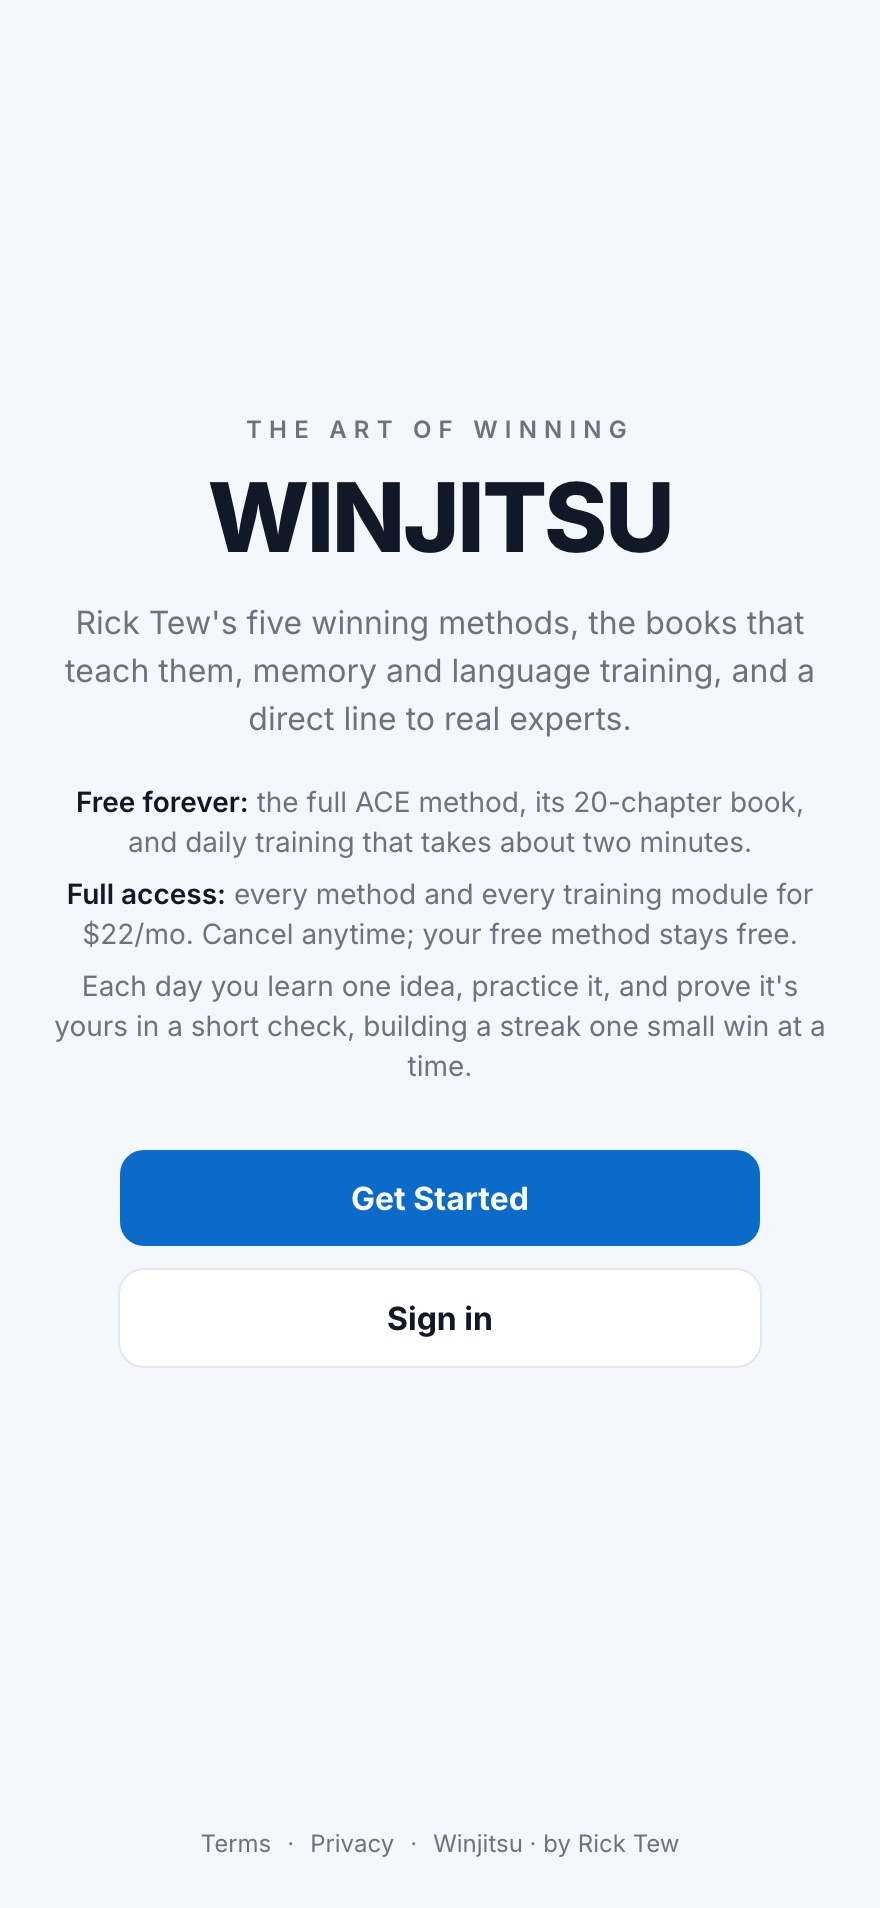
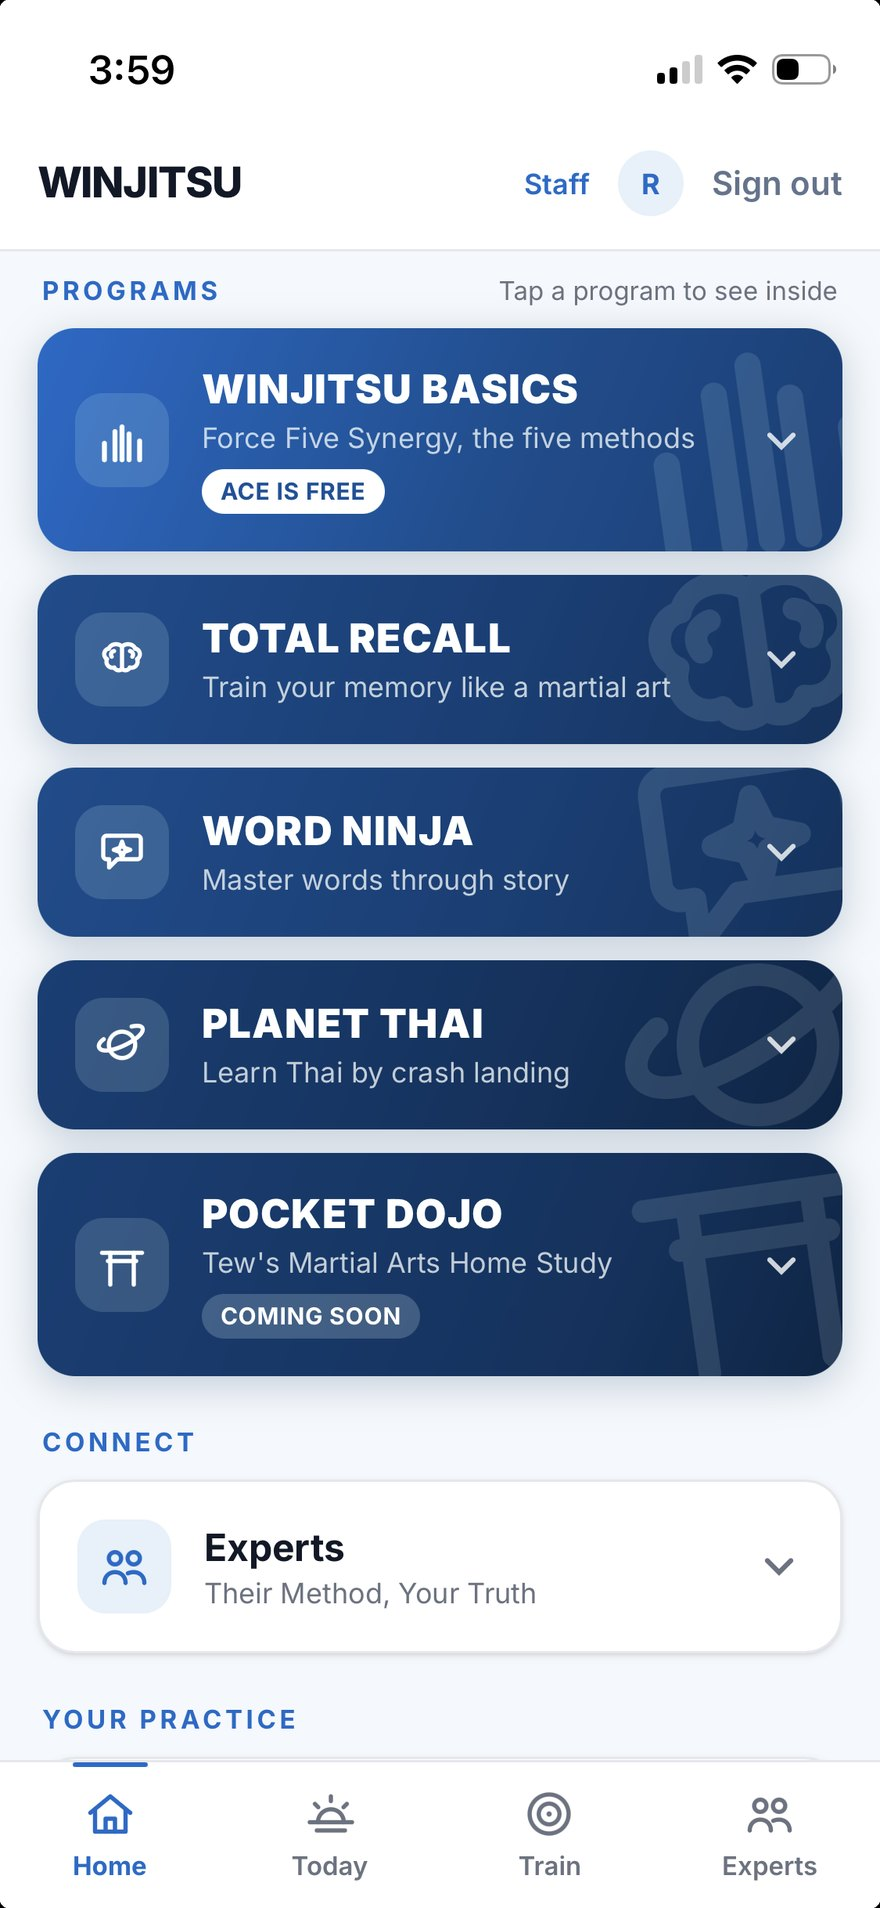
A sign-in box tells you nothing about the machine behind it
Rick's own captures replace the two tiles that were selling their apps
worst. TEWBEDO was a dark rectangle with a passkey box in the middle of it,
and WinJitsu was the pale landing page with a lot of empty space. Both are
now the app itself: TEWBEDO's AGENTS tab with the run buttons and the
dispatch log, and WinJitsu's PROGRAMS list with its five coloured cards.

Rick sent two options for each. The two that lost: TEWBEDO's INTEL tab reads
"No fresh intel", which is an empty state, and WinJitsu's Welcome back
screen is mostly small body text that turns to noise at 158px wide.

Both resized to 880x1908, so all twelve tiles in the rail share one aspect
ratio and one height. Verified in the browser: every rendered tile image
measures the same 312px.

THE COPY HAD TO MOVE WITH THEM. That section promised each capture was
"exactly as it loads for anyone who taps it. Including the ones that open
onto a sign-in wall." Two of them are now signed-in views, so that sentence
had become false. It now says most are what a stranger sees, and the two
behind a login are what Rick sees once he is inside, because a sign-in box
tells you nothing about the machine behind it. The claim is smaller and it
is true.

diff --git a/aininja/index.html b/aininja/index.html
@@ -1010,7 +1010,7 @@ footer a:hover{text-decoration:underline}
   <div class="rv">
     <div class="k">Not a portfolio shot</div>
     <h2>Thirteen apps, and here is what opens</h2>
-    <p class="sub">Games, businesses, a spa, a hostel, a gym, a console and a method. The row below is not renders or mockups: each one is a live capture pulled off that app's own address, on a phone, exactly as it loads for anyone who taps it. Including the ones that open onto a sign-in wall, and the one I already told you looks dull.</p>
+    <p class="sub">Games, businesses, a spa, a hostel, a gym, a console and a method. The row below is not renders or mockups: every one is a real capture off that app, on a phone. Most are exactly what a stranger sees when they tap it. The two that live behind a login are what I see once I am inside, because a sign-in box tells you nothing at all about the machine behind it.</p>
 
     <div class="row-label">What actually opens &middot; <b>live captures</b></div>
     <div class="app-rail" id="appRail" aria-hidden="true"></div>
